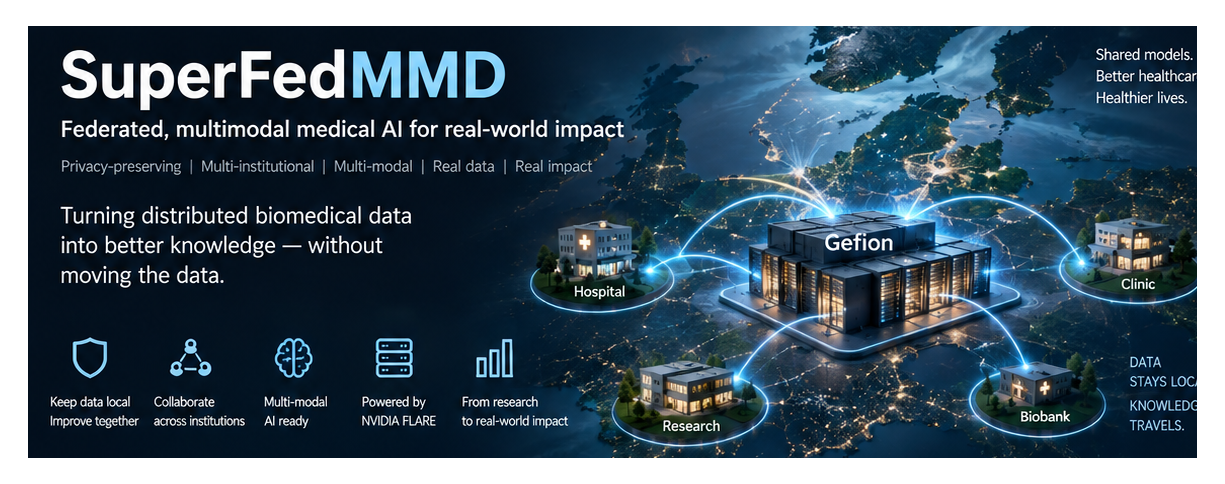
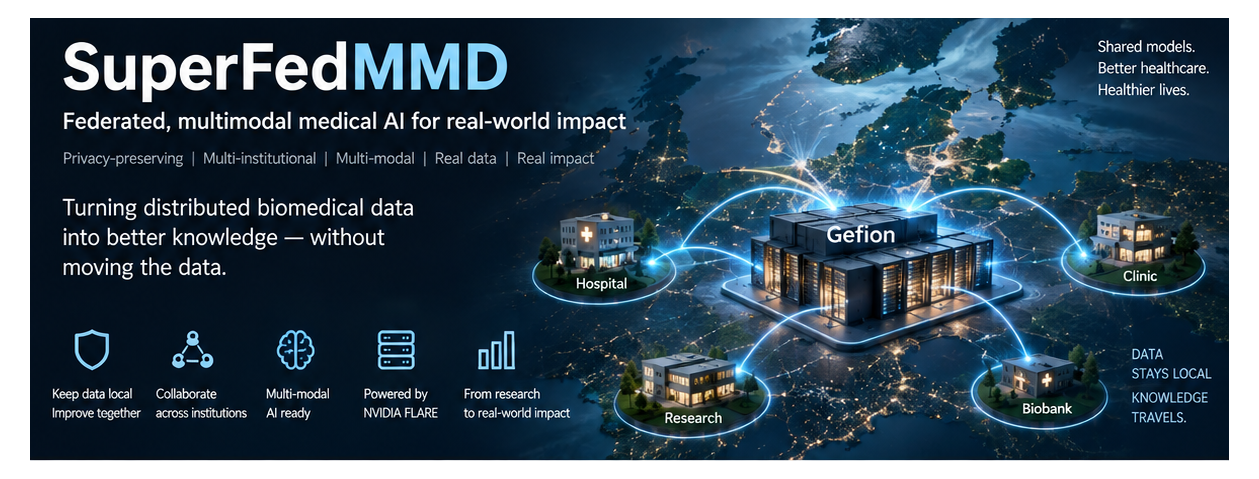
Fix README graphics cropping and layout

diff --git a/README.md b/README.md
@@ -1,10 +1,11 @@
+# SuperFedMMD
+## SuperComputer Federated MultiModal Diagnostics
+
 <p align="center">
   <img src="docs/assets/superfedmmd-hero.png" width="96%" alt="SuperFedMMD concept: local biomedical data connected through Gefion without moving source data">
 </p>
 
-# SuperComputer Federated MultiModal Diagnostics
-
-## Federated Learning of multimodal biomedical models across isolated data environments
+**Run multimodal biomedical models across isolated data environments — without moving the underlying patient data.**
 
 SuperFedMMD is an infrastructure prototype for hospitals, biobanks and research environments that want to collaborate on multimodal biomedical AI while keeping patient-level source data under local control.
 
